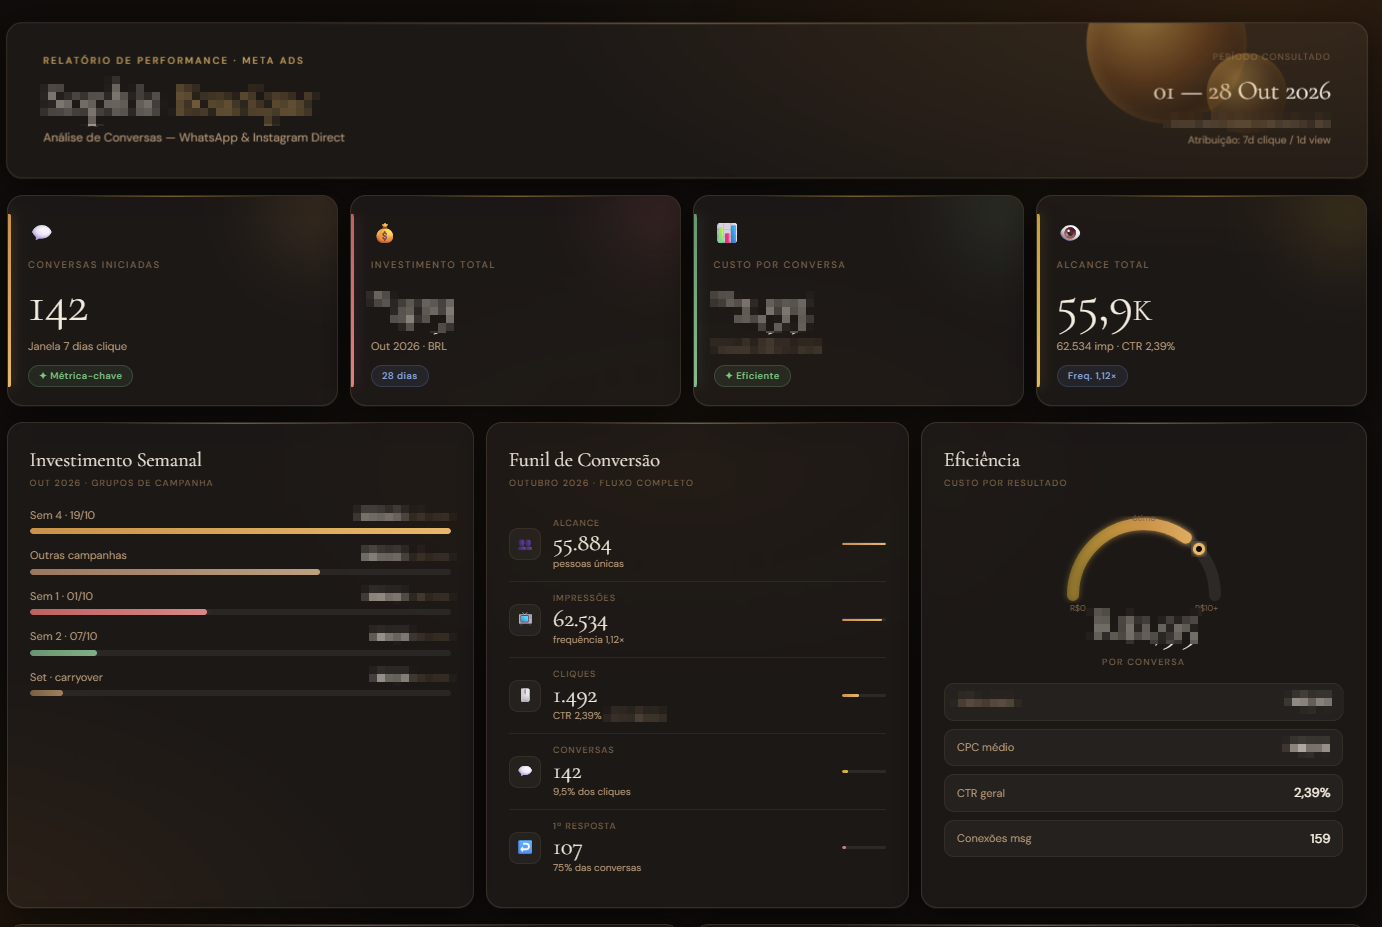
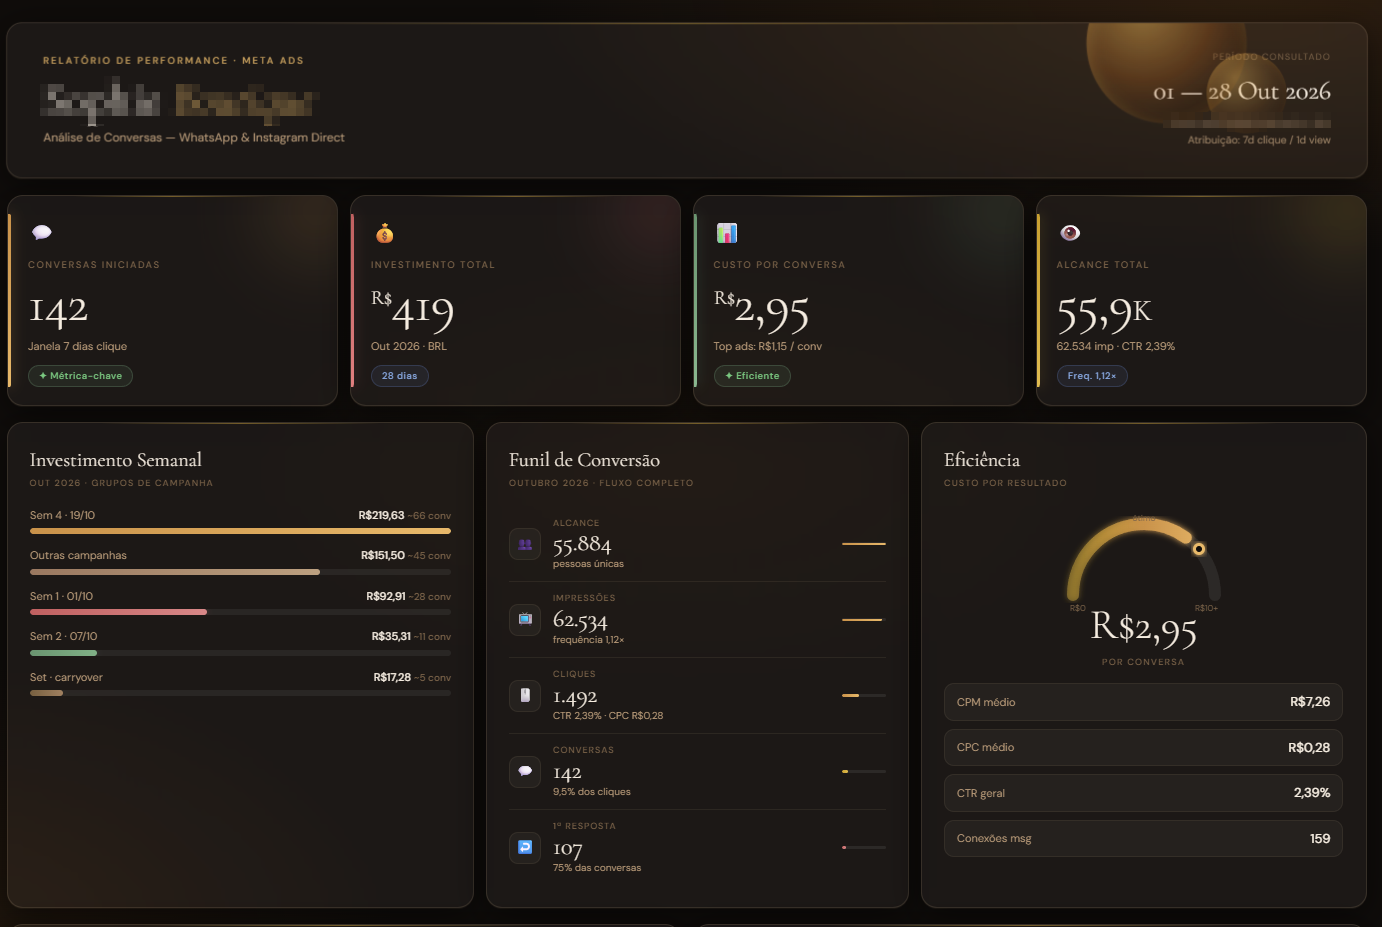
Landing: relatórios em formato de livro e tarja só em nome e conta
- Relatórios empilhados um sobre o outro, com legenda no topo de cada página
- Tarja apenas no nome do cliente e no número da conta; valores em R$ ficam visíveis
- Texto da seção atualizado

diff --git a/index.html b/index.html
@@ -136,9 +136,12 @@ p{margin:0;color:var(--muted)}
 .team-note{text-align:center;margin-top:24px;font-size:.84rem;color:var(--muted-2)}
 
 /* relatórios reais */
-.reports{display:grid;gap:44px;max-width:1040px;margin:0 auto}
-.report{margin:0}
-.report img{width:100%;height:auto;display:block;border-radius:18px;border:1px solid var(--line);background:#fff}
+.reports{display:flex;flex-direction:column;max-width:1040px;margin:0 auto;padding-bottom:12px}
+.report{margin:0;position:relative;display:flex;flex-direction:column;background:#fff;border:1px solid var(--line);border-radius:18px;padding:26px 26px 0;overflow:hidden;box-shadow:0 28px 50px -30px rgba(12,17,19,.45)}
+.report + .report{margin-top:-24px}
+.report figcaption{order:-1}
+.report img{width:100%;height:auto;display:block;border:0;border-radius:0}
+@media(max-width:600px){.report{padding:20px 18px 0}.report + .report{margin-top:28px}}
 .report .tag{font-family:var(--mono);font-size:.72rem;letter-spacing:.05em;text-transform:uppercase;color:var(--orange-text);margin-top:18px}
 .report figcaption p{margin-top:6px;font-size:.96rem;color:var(--muted)}
 .report figcaption b{color:var(--ink)}
@@ -655,7 +658,7 @@ src="https://www.facebook.com/tr?id=282209364867121&ev=PageView&noscript=1"
     <div class="head">
       <span class="kicker">Material real</span>
       <h2>Relatórios que a Lívia já entregou. Este é o padrão da sua entrega.</h2>
-      <p>Três relatórios de contas reais de clientes. Nome do cliente, número da conta e valores foram ocultados.</p>
+      <p>Três relatórios de contas reais de clientes. Nome do cliente e número da conta foram ocultados.</p>
     </div>
     <div class="reports">
       <figure class="report rv">
